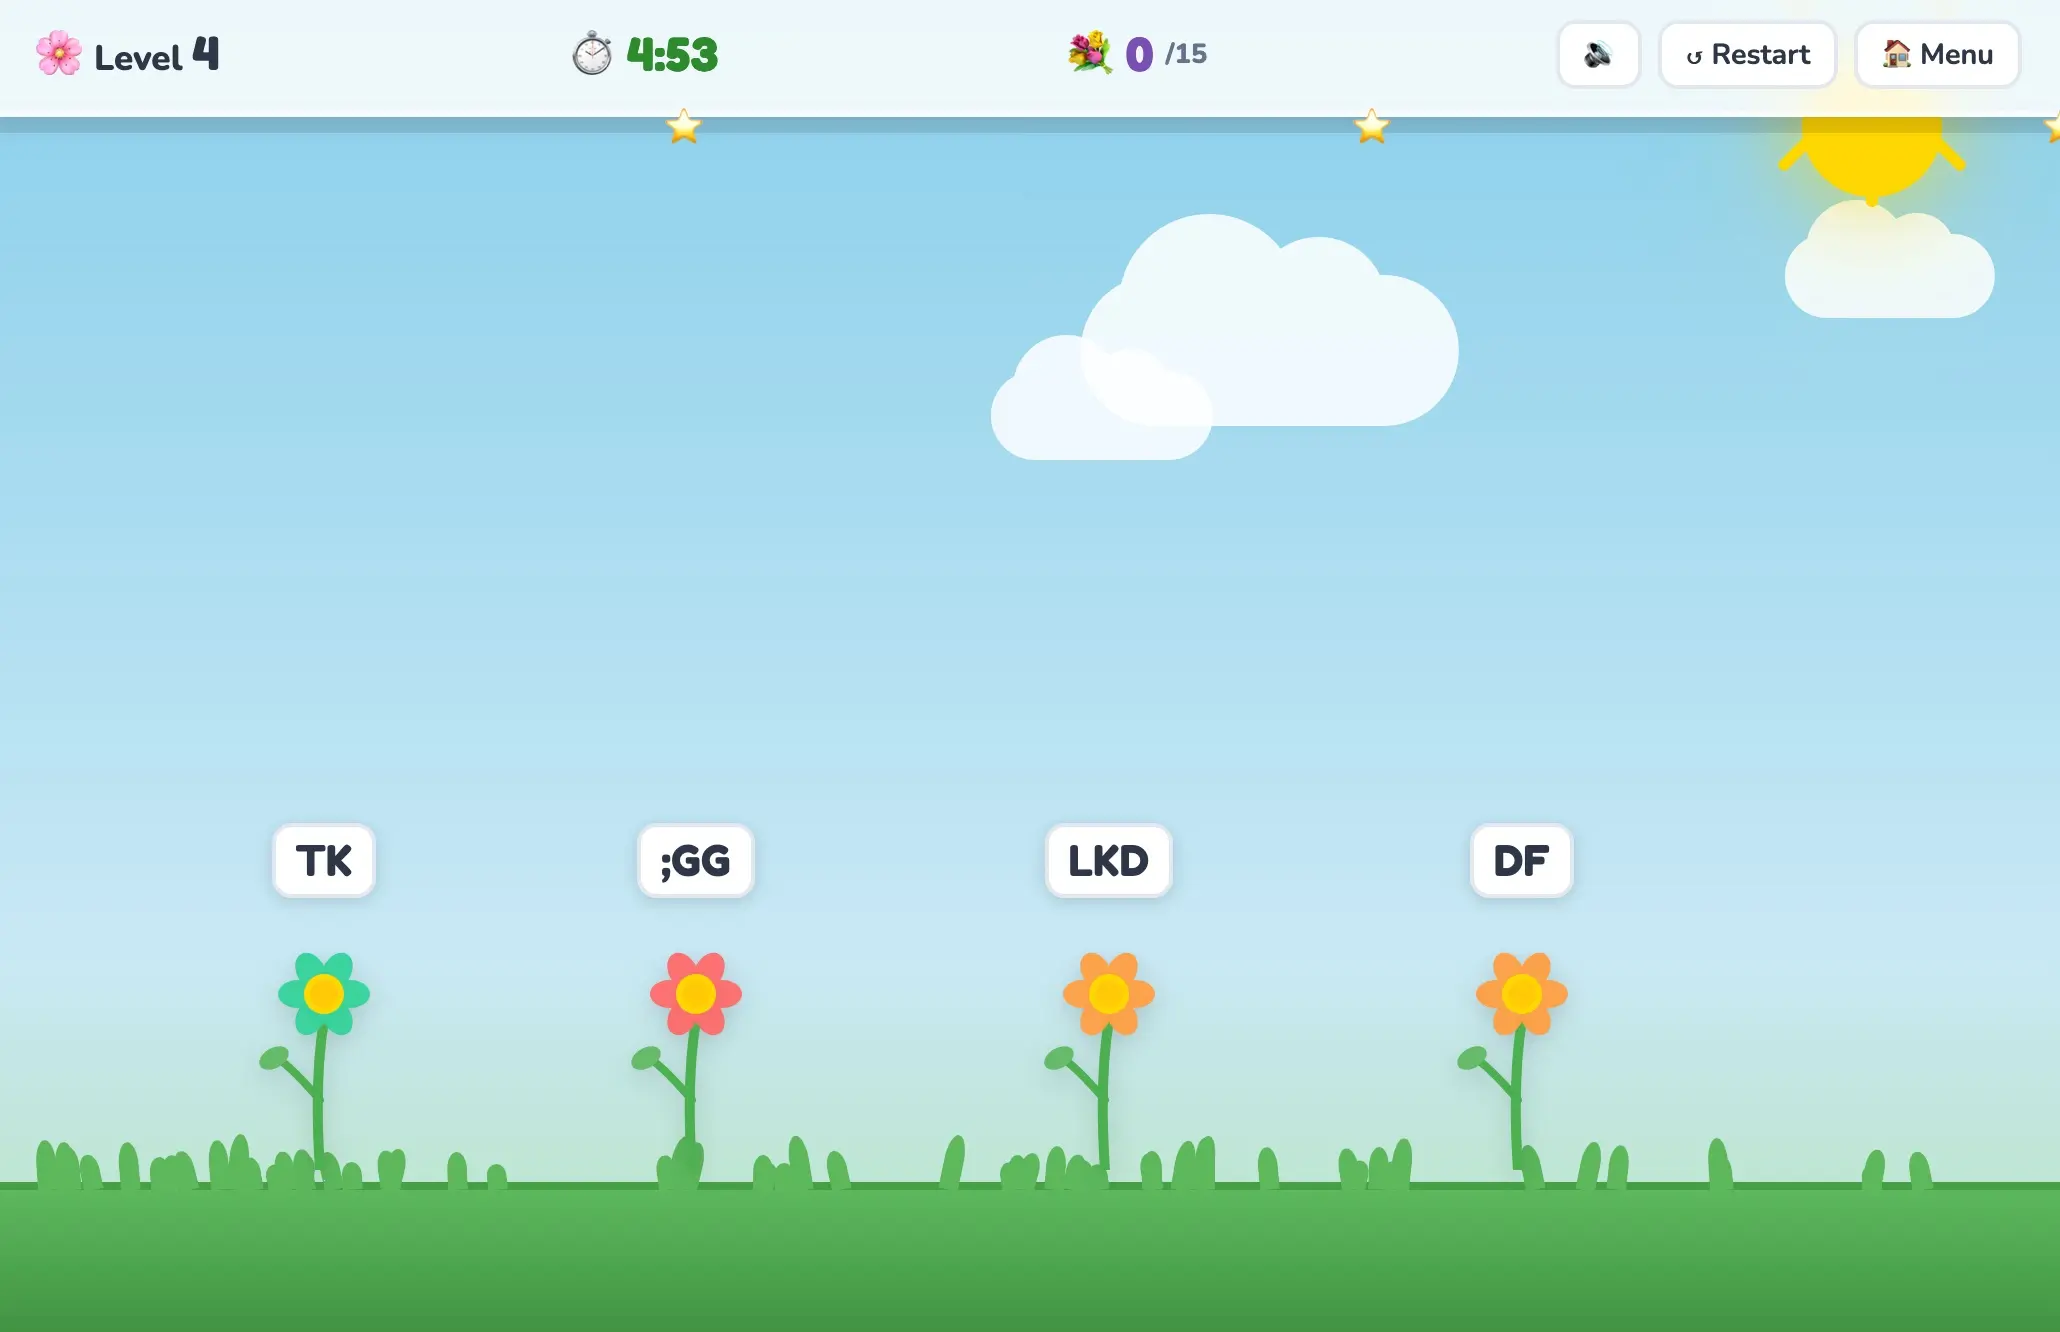
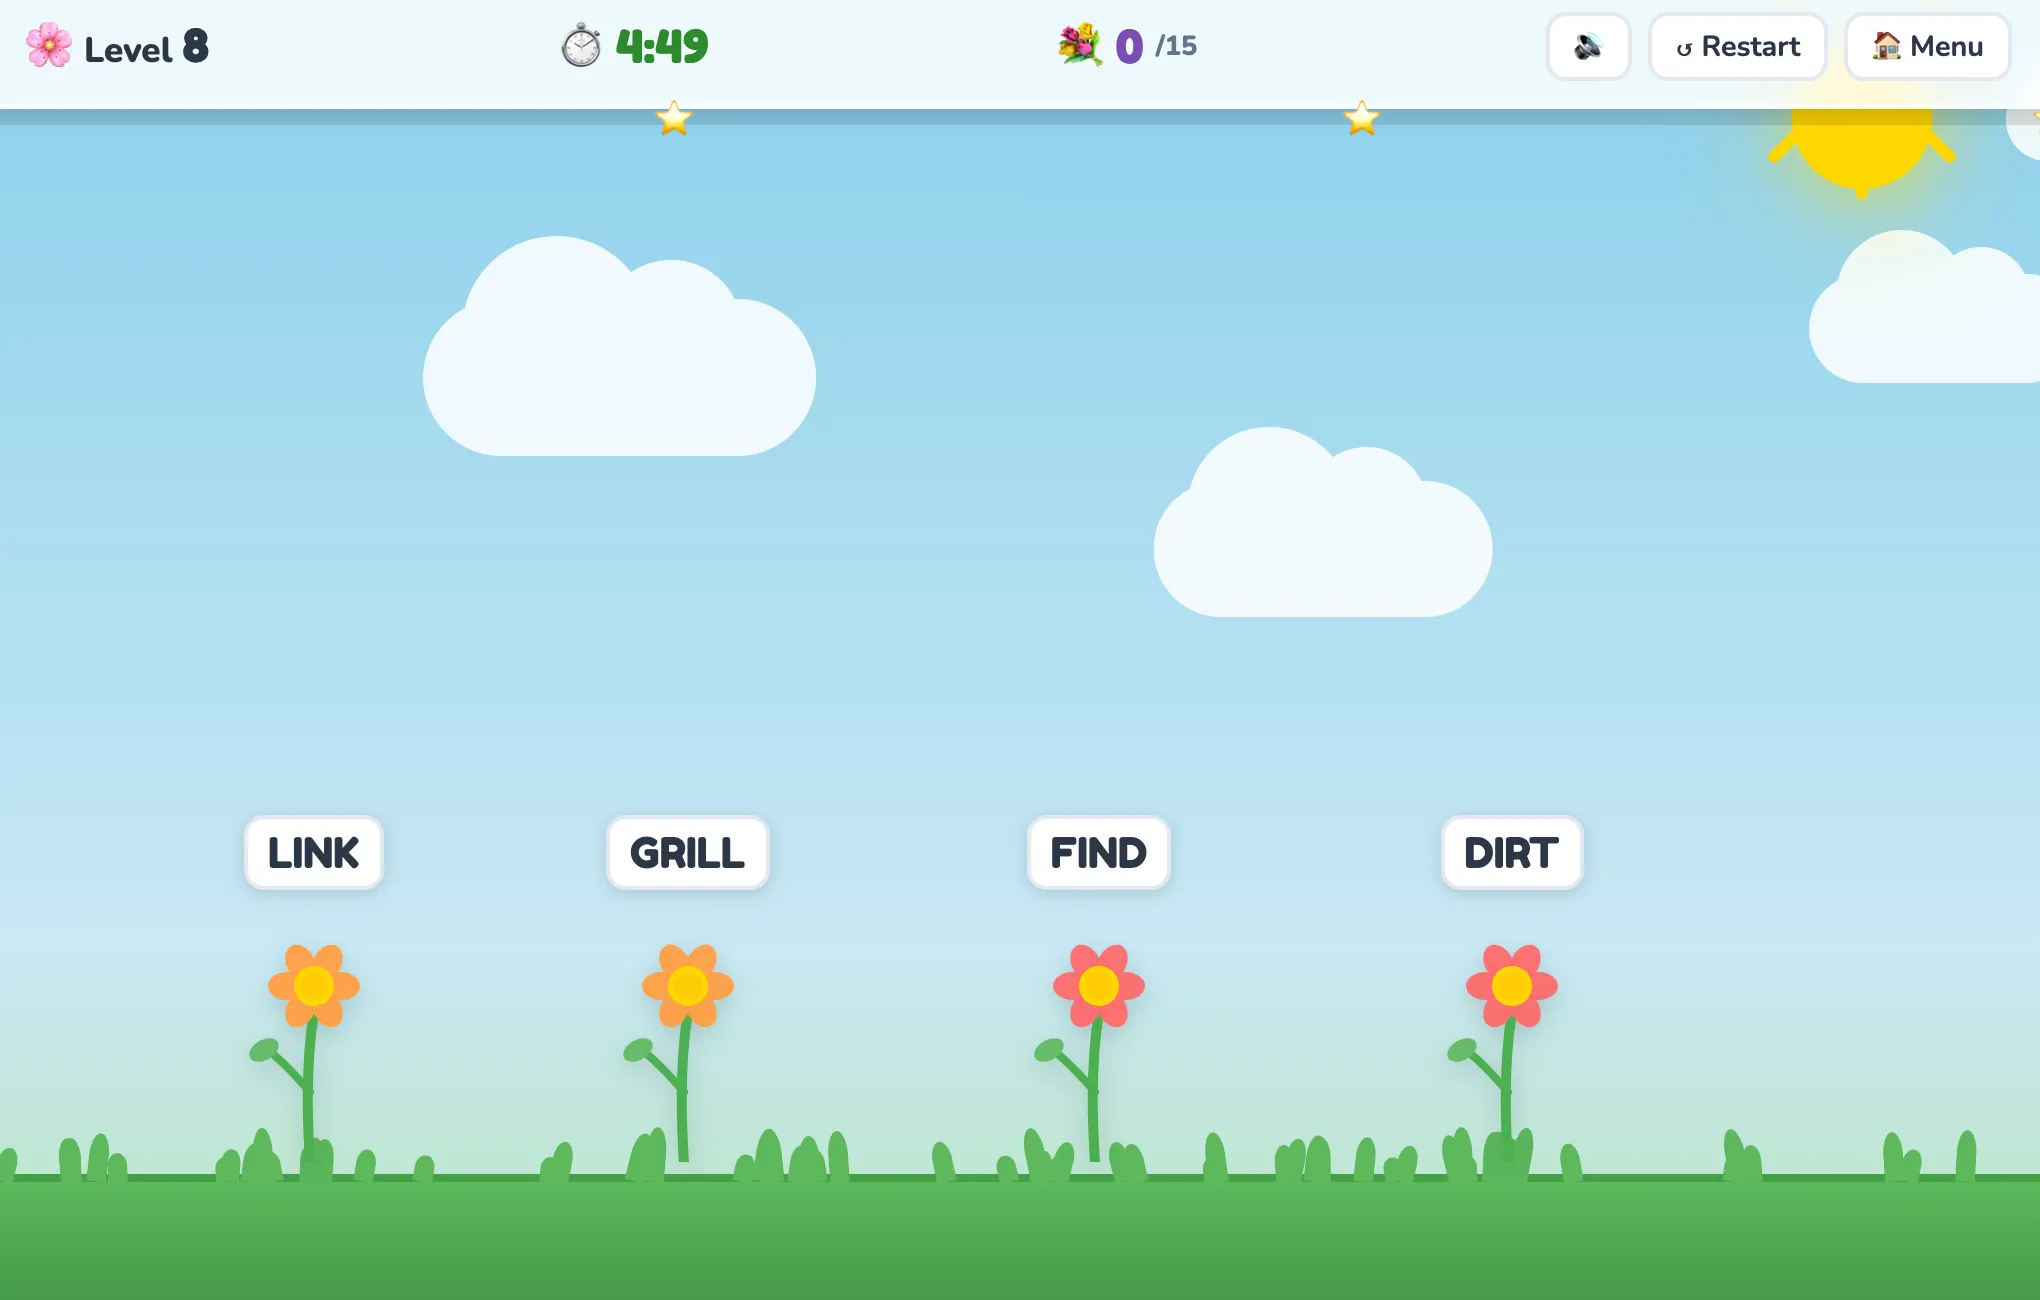
feat :: add flower game action and diploma images to spec-driven dev post
- Convert flower-game-action.png to WebP and replace existing image
- Convert flower-game-diploma.jpeg to WebP and add to post
- Add diploma image reference to blog post

diff --git a/src/content/posts/spec-driven-dev-with-my-kids.md b/src/content/posts/spec-driven-dev-with-my-kids.md
@@ -211,7 +211,7 @@ to ask, "How does it work"? And then we can start peeking on the other side.
 
 In the meantime, we'll have fun creating games together.
 
-
+![Flower game diploma](/images/flower-game-diploma.webp)
 
 
 
